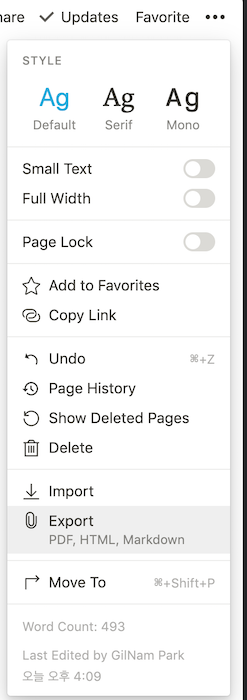
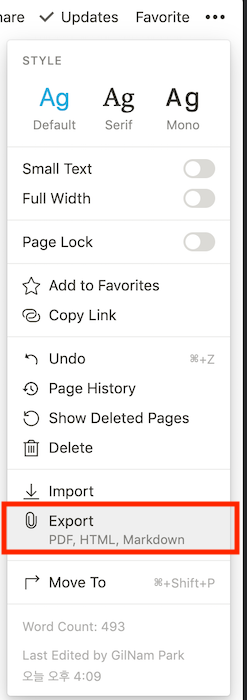
포스트 등록

Changed region(s): [[0.0, 0.69, 0.9919, 0.81]]

diff --git a/_posts/2020-03-04-EnumAdvanced.md b/_posts/2020-03-04-EnumAdvanced.md
@@ -1,0 +1,192 @@
+---
+layout: post
+title: "열거형(Enum) 고급편"
+subtitle: "[Swift]"
+date: 2020-03-02 17:00
+background: 
+tag: [iOS, Swift]
+---
+
+오늘은 열거형의 고급 활용에 대해 알아보려고 합니다. 저번 기본편에서는 열거형을 만들고, 사용하는 법을 배웠는데 이번엔 좀 더 깊이 들어가 열거형을 어떻게 더 사용할 수 있는지 알아보려고 합니다.
+
+열거형 기본편을 확인하고 싶으신 분들은 아래 링크를 참고 해주세요.
+
+[[Swift] 열거형(Enum) 기본편](https://swieeft.github.io/EnumBasic/)
+
+### 프로토콜
+
+---
+
+스위프트 열거형은 하나의 데이터 타입으로 정의 될 수 있는데요. 그 중에 구조체와 유사한 점들이 많이 있습니다. 
+
+메서드나 프로퍼티(열거형은 연산 프로퍼티만 가능)를 정의할 수 있으며, 둘 다 Call by Value로 메모리 주소를 복사하지 않고 값이 복사되는 형태를 가지고 있습니다.
+
+그리고 스위프트에서 가장 많이 활용 되는 프로토콜을 적용할 수 있다는 점이 유사합니다. 스위프트 문법을 공부하다 보면 POP에 대한 이야기가 많이 언급 되는 것을 확인할 수 있는데, 열거형에서도 프로토콜을 채택할 수 있어 프로토콜의 여러 장점을 활용할 수 있습니다.
+
+- **프로토콜 선언**
+
+    이번엔 분식집, 고기집, 양식집 메뉴판을 만들어 보려고 합니다. 
+    
+    모든 메뉴판에는 기본적으로 메뉴 이름을 보여줘야 되고, 다음 메뉴를 볼 수 있게 넘기는 기능이 필요합니다. 이 기능은 모든 메뉴판에 필수적으로 들어가야 되기 때문에 프로토콜로 선언 해주어 모든 메뉴판에서 채택하도록 합니다.
+
+    <p> {% gist swieeft/aa0bfe9a44771fc747519ada8aa06694 EnumAdvanced1.swift %} </p>
+
+    > 메뉴이름 프로퍼티에 get만 있는 것은 열거형에서는 연산 프로퍼티만 사용할 수 있기 때문입니다.
+
+- **열거형 프로토콜 채택**
+
+    이제 메뉴판프로토콜을 각 메뉴판에 채택하여 메뉴이름, 다음메뉴를 구현하도록 합니다. 프로토콜 채택은 구조체, 클래스와 마찬가지로 열거형 이름 옆에 콜론(:)을 한 뒤 프로토콜을 입력하면 됩니다.
+
+    <p> {% gist swieeft/aa0bfe9a44771fc747519ada8aa06694 EnumAdvanced2.swift %} </p>
+
+- **사용하기**
+
+    프로토콜을 채택하여 만든 프로퍼티와 메서드 사용하는 방법은 기존에 직접 정의 했을 때 처럼 사용하면 됩니다.
+
+    <p> {% gist swieeft/aa0bfe9a44771fc747519ada8aa06694 EnumAdvanced3.swift %} </p>
+
+### 익스텐션(extension)
+
+---
+
+열거형도 익스텐션을 사용하여 케이스와 메서드, 프로퍼티를 분리하여 가독성을 높일 수 있습니다.
+
+- **익스텐션 사용하기**
+
+    케이스와 메서드, 프로퍼티를 익스텐션을 사용해서 분리할 수 있습니다. 또한 여러 프로토콜을 채택한 열거형이라면 각 프로토콜별로 익스텐션을 만들어서 관리할 수도 있습니다.
+
+    <p> {% gist swieeft/aa0bfe9a44771fc747519ada8aa06694 EnumAdvanced4.swift %} </p>
+
+- **프로토콜 익스텐션 만들기**
+
+    프로토콜 자체를 익스텐션하여 프로토콜이 요구하는 사항을 모두 한꺼번에 구현할 수 있는 방법이 프로토콜 익스텐션입니다. 
+
+    프로토콜 익스텐션을 활용하면 중복되는 코드를 피할 수 있고, 프로토콜을 채택한 곳에서 프로토콜이 요구하는 사항을 모두 구현해 줄 필요가 없습니다.
+
+    <p> {% gist swieeft/aa0bfe9a44771fc747519ada8aa06694 EnumAdvanced5.swift %} </p>
+
+    > 메뉴판프로토콜을 채택 한 후 메뉴이름을 구현하지 않았지만 오류가 나지 않는 것을 확인 할 수 있습니다.
+
+- **프로토콜 익스텐션 재정의**
+
+    만약 메뉴이름을 각 항목의 이름이 아닌 좀 더 멋진 메뉴 이름으로 바꾸고 싶다면 열거형 안에서 재정의 해주면 됩니다.
+
+    <p> {% gist swieeft/aa0bfe9a44771fc747519ada8aa06694 EnumAdvanced6.swift %} </p>
+
+### 제네릭 열거형
+
+---
+
+스위프트의 열거형은 제네릭을 적용할 수 있습니다. 스위프트 문법 중에 제네릭 열거형을 활용한 대표적인 예는 옵셔널(Optional)이라고 할 수 있습니다. 
+
+- **옵셔널 구현 형태**
+
+    [옵셔널(Optional) 공식문서](https://developer.apple.com/documentation/swift/optional)를 보시면 간단하게 아래와 같이 구현 되어 있는 것을 볼 수 있습니다.
+
+    **\<Wrapped\>**가 제네릭 파라메터이고 이 제네릭 파라메터로 다양한 타입의 옵셔널을 만들 수 있게 되는 것입니다.
+
+    <p> {% gist swieeft/aa0bfe9a44771fc747519ada8aa06694 EnumAdvanced7.swift %} </p>
+
+- **옵셔널 열거형 사용**
+
+    옵셔널을 구현할 때 단순하게 변수 타입에 ?를 붙이면 되지만 아래와 같은 방법으로도 사용 가능합니다.
+
+    <p> {% gist swieeft/aa0bfe9a44771fc747519ada8aa06694 EnumAdvanced8.swift %} </p>
+
+### 재귀적 /간접 타입 열거형
+
+---
+
+재귀적 / 간접 타입을 사용하면 열거형의 각 항목의 연관 값으로 열거형 타입을 지정해줄 수 있습니다. 열거형은 구조체와 마찬가지로 크기가 일정한 데이터 타입이라고 볼 수 있습니다.
+
+하지만 자기 자신을 참조하는 열거형은 잠재적으로 무한한 크기를 가질 수 있어 컴파일러에게 해당 타입이 재귀적 / 간접 타입이라는 것을 명시 해주어야 합니다.
+
+- **재귀적 / 간접 타입 열거형 선언**
+
+    재귀적 / 간접 타입을 사용하기 위해서는 **indirect** 키워드를 사용해야 합니다. 
+    
+    열거형 전체 항목에 적용하려면 enum 앞에 선언하고, 특정 항목에만 적용하려면 case 앞에 선언 해주면 됩니다.
+
+    - 전체에 적용
+
+        <p> {% gist swieeft/aa0bfe9a44771fc747519ada8aa06694 EnumAdvanced9.swift %} </p>
+
+    - 특정 항목에만 적용
+
+        <p> {% gist swieeft/aa0bfe9a44771fc747519ada8aa06694 EnumAdvanced10.swift %} </p>
+
+- **재귀적 / 간접 타입 열거형 사용**
+
+    <p> {% gist swieeft/aa0bfe9a44771fc747519ada8aa06694 EnumAdvanced11.swift %} </p>
+
+> 재귀적 / 간접 타입 열거형은 아직 저도 100% 이해한 부분이 아니라서 내용이 부실합니다. 좀 더 공부해서 내용을 더 추가하도록 하겠습니다.
+
+### 열거형 연관 값으로 비교하기
+
+---
+
+열거형의 케이스만으로 비교를 할 경우엔 **if T.a == T.b** 처럼 쉽게 비교 연산을 할 수 있습니다. 
+
+하지만 연관 값이 들어 있을 경우 비교하는 로직이 복잡해질 수 있는데 이 때 직접 비교 연산자를 만들어서 사용하면 좀 더 간편하게 연관 값을 비교할 수 있습니다.
+
+- **비교 연산자 만들기**
+
+    비교 연산자를 만드는건 구조체나 다른 곳에서 만드는 방식과 동일하게 **func ==() -> Bool**을 사용하면 됩니다.
+
+    비교 연산자 메서드 안에서 switch 문을 이용해 연관 값을 추출한 후 where을 통해 비교하고자 하는 값을 비교하여 결과를 리턴 해주면 됩니다.
+
+    <p> {% gist swieeft/aa0bfe9a44771fc747519ada8aa06694 EnumAdvanced12.swift %} </p>
+
+- **비교 연산자 사용하기**
+
+    위에 비교 연산자를 만들었다면 사용하는 방법은 일반적인 비교 연산자와 동일합니다.
+
+    <p> {% gist swieeft/aa0bfe9a44771fc747519ada8aa06694 EnumAdvanced13.swift %} </p>
+
+### 커스텀 생성자
+
+---
+
+만약 API를 통해 String, Int 등으로 된 값을 받아 와서 열거형으로 변환을 하여 사용하려고 하면 어떻게 해야 될까요? 
+
+기본편에서 배웠던 정적 메서드를 이용해서 하는 방법도 있지만 그것보다 더 깔끔하게 사용하는 방법이 커스텀 생성자를 이용하는 것입니다.
+
+- **커스텀 생성자 만들기**
+
+    생성자 만드는 방법은 구조체나 클래스의 생성자를 만드는 방법과 동일하게 **init**을 만들어 주면 됩니다. 아래는 서버에서 받은 에러 코드 값으로 에러 메시지를 찾는 열거형입니다.
+
+    <p> {% gist swieeft/aa0bfe9a44771fc747519ada8aa06694 EnumAdvanced14.swift %} </p>
+
+- **커스텀 생성자 사용하기**
+
+    <p> {% gist swieeft/aa0bfe9a44771fc747519ada8aa06694 EnumAdvanced15.swift %} </p>
+
+- **실패할 수 있는 생성자 만들기**
+
+    열거형에도 실패할 수 있는 생성자를 만들 수 있습니다. init 뒤에 ?만 붙여 주면 원하는 초기화 값이 없을 경우 nil을 반환하게 됩니다.
+
+    <p> {% gist swieeft/aa0bfe9a44771fc747519ada8aa06694 EnumAdvanced16.swift %} </p>
+
+### 마무리
+
+---
+
+기나긴 열거형을 마무리하게 되었습니다. 저도 열거형에 대한 글을 정리하려고 검색을 하니 제가 알지 못 했던 사용 방법도 많이 있어서 쉽게 생각하고 글을 작성 했다가 장장 두 편에 걸쳐서 글을 작성하게 되었네요.
+
+스위프트를 사용하면서 열거형은 잘 활용하면 더 깔끔하고 직관적인 코드 작성이 가능한 것 같습니다. 저도 진행하고 있는 프로젝트에서 열거형을 사용하면 좋아질 수 있는 부분을 찾아서 바꿔 보려고 합니다.
+
+여러분도 기존에 쓰던 방식이 편하다고 그냥 두지 마시고 바꿔 볼 수 있는 부분들을 찾아서 바꾸다 보면 열거형에 많이 익숙해지고 더 좋은 코드를 만들 수 있을 것 같습니다.
+
+그럼 달콤한 코딩 되세요!
+
+### 참고자료
+
+---
+
+[열거형의 고급 활용과 모범 사례](https://outofbedlam.github.io/swift/2016/04/05/EnumBestPractice/)
+
+[What are indirect enums?](https://www.hackingwithswift.com/example-code/language/what-are-indirect-enums)
+
+[indirect enums and structs](https://stackoverflow.com/questions/37533006/indirect-enums-and-structs/37533442)
+
+[Swift - 프로토콜 지향 프로그래밍 - yagom's blog](https://blog.yagom.net/531/)

diff --git a/_posts/2020-03-02-NotionToGithubioPorting.md b/_posts/2020-03-02-NotionToGithubioPorting.md
@@ -1,0 +1,156 @@
+---
+layout: post
+title: "Notion으로 글 작성하고 Github io로 글 옮기기"
+subtitle: "[Tips]"
+date: 2020-03-02 17:00
+background: 
+tag: [Tips, Github io, Notion]
+---
+
+기존에 블로그를 Notion으로 운영하기 위해 작업을 하다가 여러가지 문제점을 발견하여 Github io로 블로그를 이동하게 되었습니다. 
+
+그 과정에서 작성된 게시글들을 옮겨야 되는데 막막하던 차에 Notion export를 활용하여 게시글을 Markdown으로 export해서 옮기게 되었는데 생각보다 호환이 잘 되어 지금도 글 작성은 Notion으로 하고, Markdown export 후에 약간의 수정을 한 후 블로그 업로드를 하고 있습니다.
+
+그래서 Notion에서 글 작성 후 Github io로 업로드 하는 방법을 제가 경험한 내용을 토대로 작성하려고 합니다.
+
+### Notion으로 글 작성하기
+
+---
+
+우선 [Notion](https://www.notion.so/)을 아시나요? 요즘 핫한 메모, 업무, 일정관리 등을 통합해서 사용할 수 있는 툴로 많은 회사에서 사용 되는 툴입니다. 
+
+글 작성이 간편하고, 팀 공유 및  URL을 통해 외부 공유도 가능하며, 모바일 앱도 지원해서 요즘 많은 스타트업에서 업무 협업 툴로 많이 채택되고 있는데요. 
+
+무료로 이용도 가능하지만 무료로 쓸 수 있는 양이 생각 보다 적어서 만약 사용하신다면 개인 플랜이라도 결제해서 사용하시는걸 권장합니다.
+
+Notion으로 글을 작성하는 방법은 [노션 가이드](https://www.notion.so/Notion-1ad7ccbc41a44298814a4820d4acb14e)에 잘 정리 되어 있으니 관심 있으신 분들은 한번 찾아보시면 좋을 것 같습니다.
+
+여기서는 Notion을 어느정도 사용해 보셨다고 생각하고 글 작성 부분은 넘어가도록 하겠습니다.
+
+### 작성 된 글 Export 하기
+
+---
+
+Notion에서 글 작성이 완료 된 후 Export를 하여 MarkDown 문서를 생성해야 됩니다.
+
+- **상단 우측 More(∙∙∙) 메뉴 클릭하기**
+
+    노션 페이지 상단 우측에 ∙∙∙ 아이콘을 클릭하여 메뉴를 연 후 Export를 클릭합니다.
+
+    ![NotionToGithubioPorting1.png](/assets/images/posts/2020-03-02/NotionToGithubioPorting1.png)
+
+- **Export 포맷 설정**
+
+    Export할 포맷을 설정합니다. PDF, HTML 등이 있지만 우리는 Markdown & CSV를 선택합니다.
+
+    Include subpages는 현재 Export할 페이지에 하위 페이지가 있으면 함께 Export할 것인지 체크하는 것으로 만약 하위 페이지까지 내보내야 된다면 On으로 스위치를 변경하시면 됩니다.
+
+    그 후 Export 버튼을 클릭합니다.
+
+    ![NotionToGithubioPorting2.png](/assets/images/posts/2020-03-02/NotionToGithubioPorting2.png)
+
+- **Export할 디렉토리 지정**
+
+    Export할 파일의 이름을 설정할 수 있고, 저장 경로를 설정할 수 있습니다. 설정이 완료 된 후 저장 버튼을 누르면 설정한 경로에 설정한 이름으로 된 .zip 파일이 생성되게 됩니다. 
+
+    ![NotionToGithubioPorting3.png](/assets/images/posts/2020-03-02/NotionToGithubioPorting3.png)
+
+- **.zip 파일 압축 풀기**
+
+    .zip 파일 압축을 풀면 .md 파일과 페이지 내부에 이미지 등의 리소스가 첨부 되었다면 리소스 파일이 Export 된 것을 확인하실 수 있습니다.
+
+    ![NotionToGithubioPorting4.png](/assets/images/posts/2020-03-02/NotionToGithubioPorting4.png)
+
+### Markdown 내용 Github io로 옮기기
+
+---
+
+Export한 Markdown 파일을 바로 Github io에 넣는다고 적용이 되지 않습니다. 
+
+Github io에서 사용하는 지킬 테마에 따라 설정이 조금씩 다를 수 있지만 제가 사용하고 있는 테마를 기준으로 설명 하도록 하겠습니다. 
+
+> Github io를 사용하고 계신다는 전재로 작성하겠습니다. Github io를 처음 시작하시는 분은 [https://devinlife.com/howto/](https://devinlife.com/howto/) 여기를 먼저 보시고 오시면 될 것 같습니다.
+
+지금부터는 Export된 Markdown을 Github io로 옮길 때 유의할 점에 대해서만 기술합니다. 제가 경험 했던 내용만 우선 작성 되며, 유의할 점을 발견 시에 계속 추가 업데이트할 예정입니다.
+
+- **Markdown 상단 설정 값 수정하기**
+
+    Github io에서 블로그 글을 업로드 할 때 Markdown 안에 필수로 작성 해주어야 하는 설정 값들이 있습니다. 맨 위에 **---** 사이에 설정값을 입력하면 됩니다.
+    
+    이 부분은 Notion에서 Export시에 같이 나오지 않기 때문에 따로 작성 해주셔야 합니다.
+
+    <p> {% gist swieeft/a4f714256b0525266cc17d22d975b0b3 NotionToGithubioPorting1.html %} </p>
+
+- **이미지 경로 수정하기**
+
+    노션에서 Markdown을 export하면 글 안에 포함 된 이미지의 경로는 노션에서 생성된 경로로 만들어지게 되서 Github io에서 이미지 경로를 찾지 못 합니다.
+
+    그래서 자신의 Github io 이미지 경로로 수정해주어야 합니다.
+
+    <p> {% gist swieeft/a4f714256b0525266cc17d22d975b0b3 NotionToGithubioPorting2.html %} </p>
+
+    > 저는 assets/images/posts/포스팅 날짜/이미지 형식으로 경로를 설정해서 사용하고 있는데요. 만약 경로가 다른 식으로 설정 되어 있다면 경로에 맞게 입력 해주시면 됩니다.
+
+- **소스코드 형식 설정하기**
+
+    노션의 코드 블럭을 추가해서 작성한 후 md 파일을 만들면 md 파일에서는 코드 블럭이 설정되지 않은 상태로 Export가 됩니다.
+
+    <p> {% gist swieeft/a4f714256b0525266cc17d22d975b0b3 NotionToGithubioPorting3.html %} </p>
+
+    이런 형식으로 나온 코드를 아래와 같이 코드 블럭으로 감싸주는 작업을 해주어야 합니다.
+
+    <p> {% gist swieeft/a4f714256b0525266cc17d22d975b0b3 NotionToGithubioPorting4.html %} </p>
+
+    만약 위에 코드 블럭 형식이 마음에 들지 않으면 gist를 이용하는 방법이 있습니다. 제가 사용하는 테마에서도 코드 블럭이 마음에 들지 않아 gist를 사용하고 있습니다. 
+    
+    gist를 이용하는 방법은 아래 링크를 참고하시면 됩니다.
+    
+    [jekyll-gist](https://github.com/jekyll/jekyll-gist)
+
+- **링크 Create Bookmark 체크하기**
+
+    노션에서는 링크를 Create Bookmark하면 블록 형태로 링크에 대한 Bookmark가 생성됩니다. 하지만 md 파일에서는 Bookmark 표현이 안 되므로 링크에 대한 내용 확인 후 수정을 해야 됩니다.
+
+    ![NotionToGithubioPorting5.png](/assets/images/posts/2020-03-02/NotionToGithubioPorting5.png)
+
+    이런 형태로 되어 있는 Bookmark를 Export 하면
+
+    ```markdown
+    [Notion - The all-in-one workspace for your notes, tasks, wikis, and databases.](https://www.notion.so/)
+    ```
+
+    이런 형태로 표현이 됩니다. 대괄호"[]" 안에 있는 텍스트가 표시 될 URL의 정보이고, 소괄호"()" 안에 있는 URL이 링크 될 페이지 주소입니다.
+
+### 마무리
+
+---
+
+이렇게 하면 Notion에서 Github io로 게시글을 이동할 때 웬만한 내용은 큰 수정 사항 없이 이동할 수 있게 됩니다. 
+
+Markdown 문법이 익숙한 분들이라면 직접 작성하는 것이 훨씬 빠르겠지만 제가 Notion을 사용하는 이유는 시각적인 표현도 있지만 개인적인 백업용으로도 사용하기 위해서 Notion을 활용하고 있습니다.
+
+아직 Notion의 많은 기능을 활용 하지는 않아서 쉽게 이동할 수 있었던 것일 수 있어서 추후에 다른 이슈가 발생하면 해당 내용을 업데이트 하는 식으로 추가하려고 합니다. 이 글은 여기서 Close가 아닌 계속 업데이트 됩니다.
+
+그럼 달콤한 개발 되세요!
+
+### Ps. Markdown 편집하기 좋은 툴 소개
+
+---
+
+지금까지 Markdown 편집을 하려고 Xcode로 삽질을 했는데 Xcode는 Markdown 편집을 하기엔 추천하지 않는 IDE입니다.
+
+제가 추천하는 IDE는 [Visual Studio Code](https://code.visualstudio.com/)입니다. 일단 무료이고, MS사에서 개발한 IDE이기 때문에 업데이트도 잘 해주고, 안정적으로 사용할 수 있습니다.
+
+또한 Markdown 문법에 대해 미리보기를 지원 해줘서 실시간으로 제대로 작성되고 있는지 확인하면서 작성할 수 있다는 것이 큰 매리트입니다.
+
+만약 Markdown 편집 툴로 사용할 것을 찾으신다면 VSCode를 다운 받아서 사용 해보세요.
+
+- **Markdown 실시간 확인하는 방법**
+
+    VSCode의 오른쪽 상단 메뉴 중 빨간색 박스의 메뉴를 클릭 하세요.
+
+    ![NotionToGithubioPorting7.png](/assets/images/posts/2020-03-02/NotionToGithubioPorting7.png)
+
+    그러면 아래와 같이 Markdown 프리뷰 화면이 나타나게 됩니다.
+
+    ![NotionToGithubioPorting8.png](/assets/images/posts/2020-03-02/NotionToGithubioPorting8.png)
